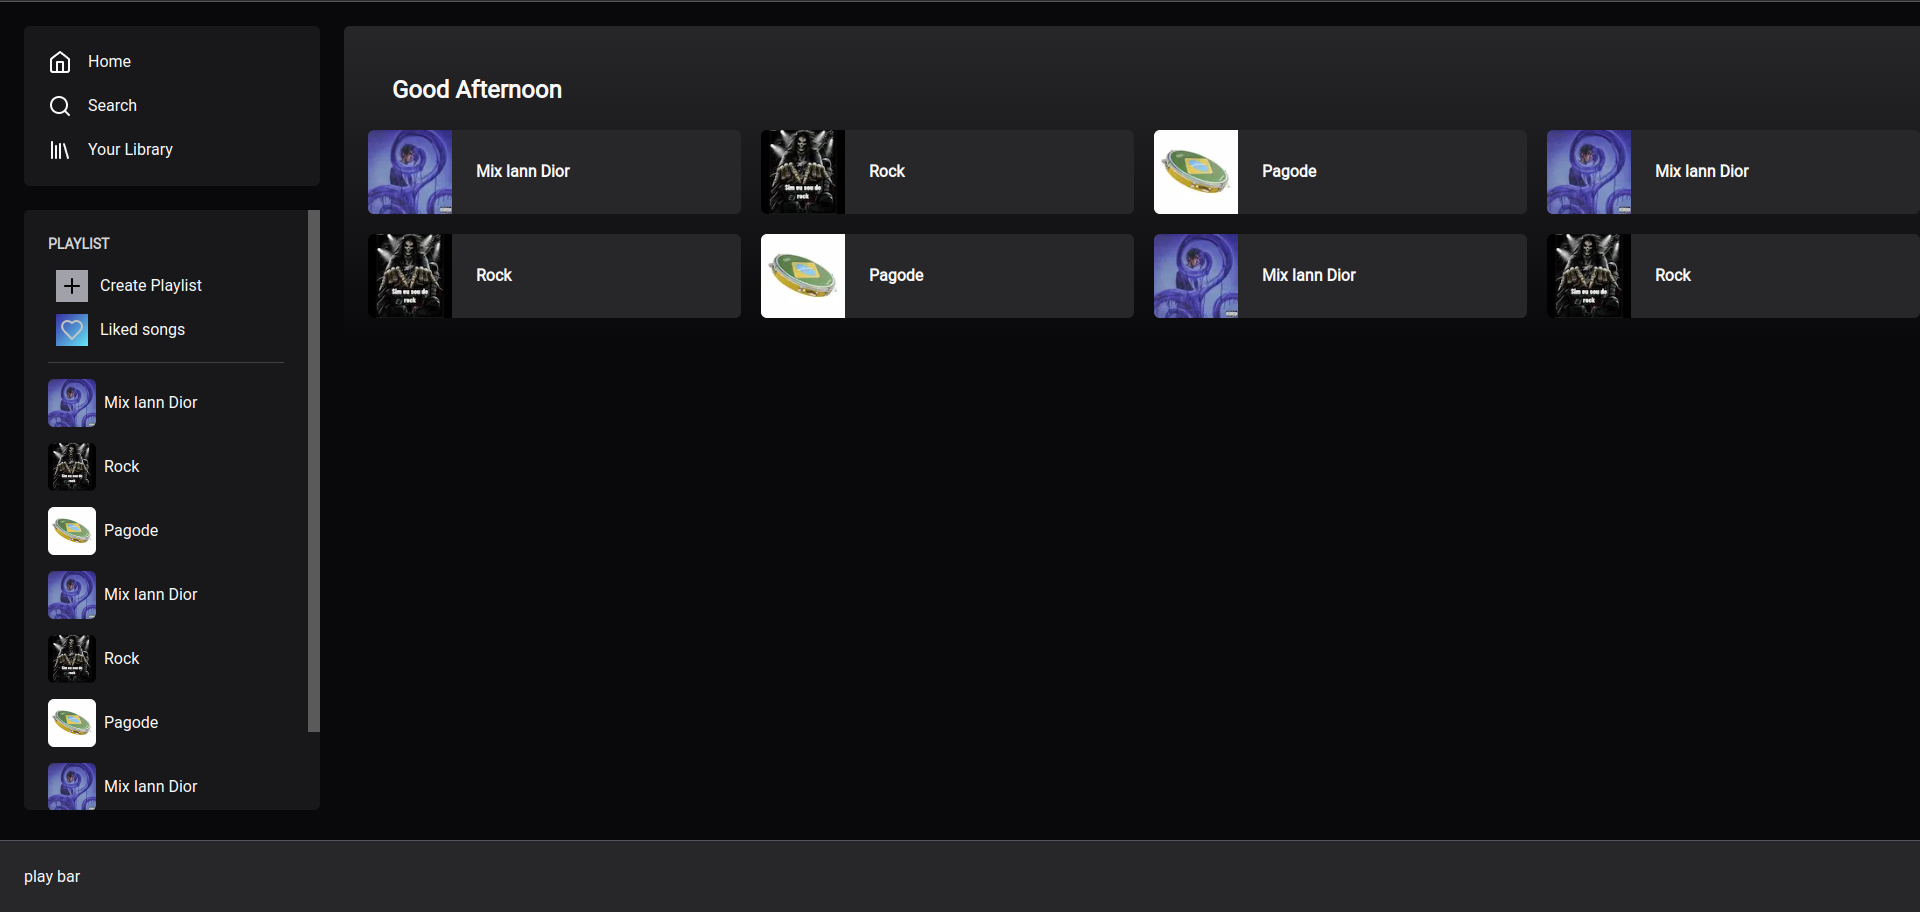
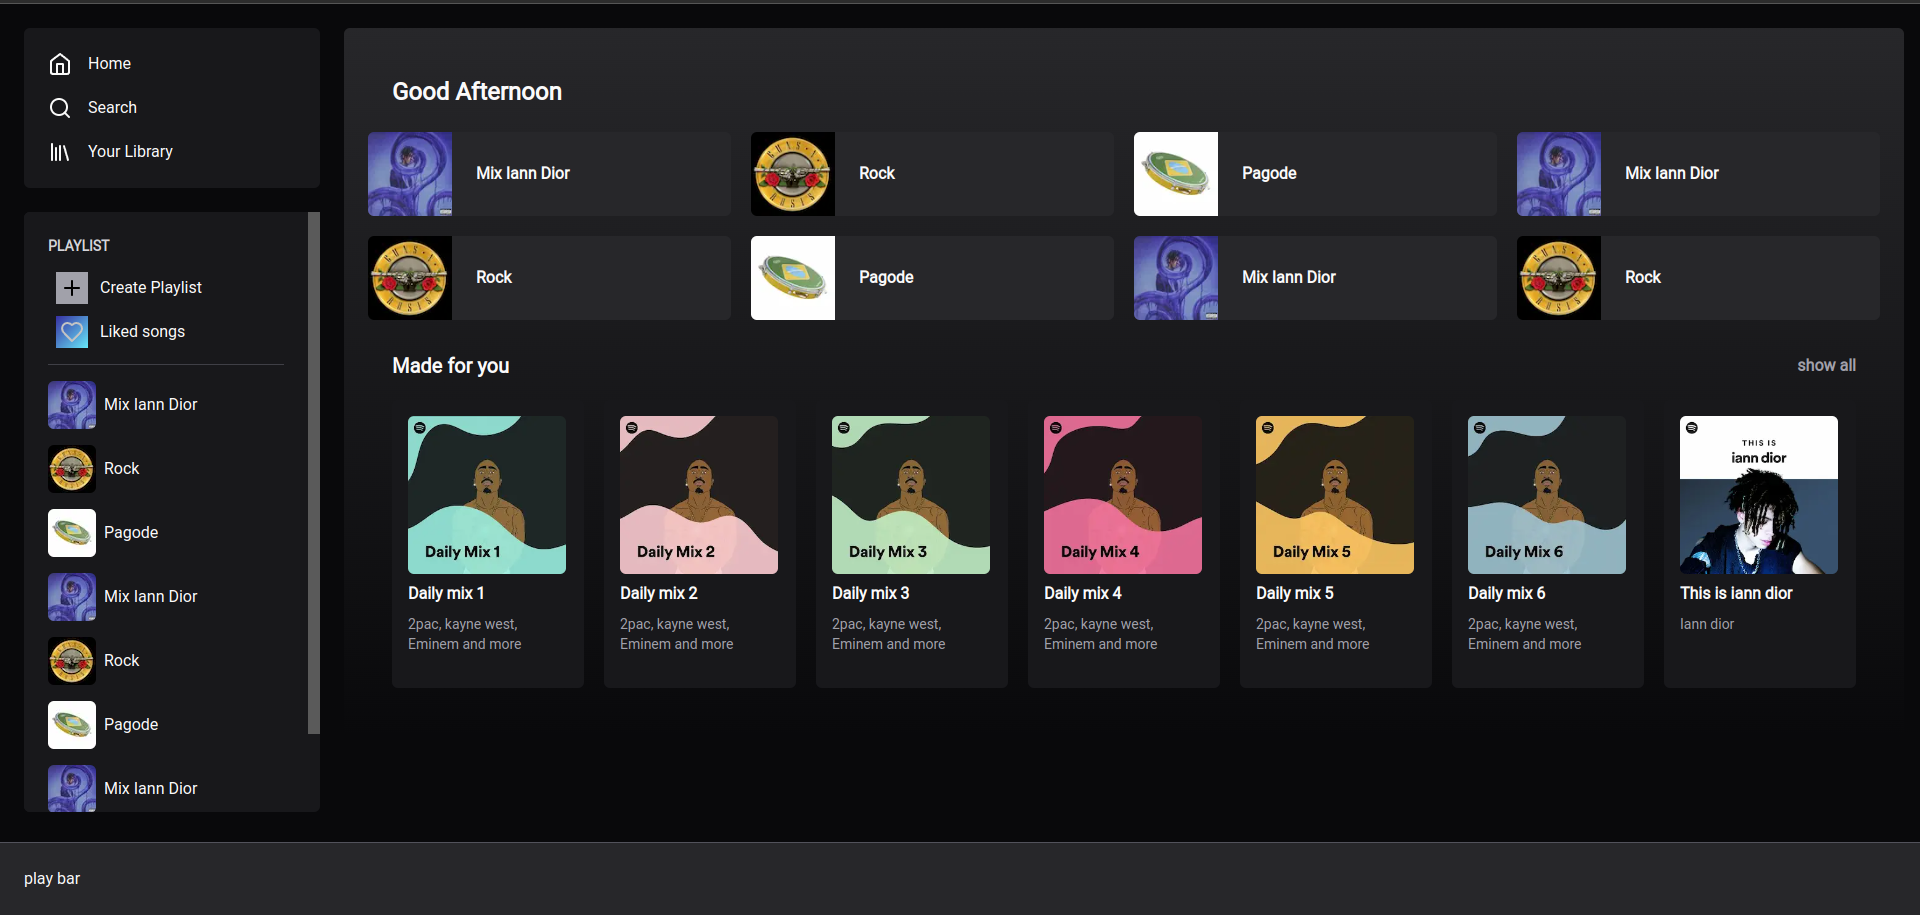
Daily mix

diff --git a/src/components/home/MadeForYou.tsx b/src/components/home/MadeForYou.tsx
@@ -1,0 +1,68 @@
+import { PlaylistCard } from "./PlaylistCard";
+
+export function MadeForYou() {
+  return (
+    <div className="flex flex-col gap-5 p-6 mt-2">
+      {/* header */}
+      <div className="flex justify-between">
+        <h1 className="text-xl font-black">Made for you</h1>
+        <button className="text-zinc-400 font-bold hover:text-zinc-300 transition-all">
+          show all
+        </button>
+      </div>
+
+      {/* playlistCard */}
+      <div className="flex flex-row gap-5">
+          <PlaylistCard
+            name={"Daily mix 1"}
+            desc={"2pac, kayne west, Eminem and more"}
+            img={
+              "https://dailymix-images.scdn.co/v2/img/ab6761610000e5eb7f5cc432c9c109248ebec1ac/1/en/default"
+            }
+          />
+        <PlaylistCard
+          name={"Daily mix 2"}
+          desc={"2pac, kayne west, Eminem and more"}
+          img={
+              "https://dailymix-images.scdn.co/v2/img/ab6761610000e5eb7f5cc432c9c109248ebec1ac/2/en/default"
+            }
+        />
+        <PlaylistCard
+          name={"Daily mix 3"}
+          desc={"2pac, kayne west, Eminem and more"}
+          img={
+              "https://dailymix-images.scdn.co/v2/img/ab6761610000e5eb7f5cc432c9c109248ebec1ac/3/en/default"
+            }
+        />
+        <PlaylistCard
+          name={"Daily mix 4"}
+          desc={"2pac, kayne west, Eminem and more"}
+          img={
+              "https://dailymix-images.scdn.co/v2/img/ab6761610000e5eb7f5cc432c9c109248ebec1ac/4/en/default"
+            }
+        />
+        <PlaylistCard
+          name={"Daily mix 5"}
+          desc={"2pac, kayne west, Eminem and more"}
+          img={
+              "https://dailymix-images.scdn.co/v2/img/ab6761610000e5eb7f5cc432c9c109248ebec1ac/5/en/default"
+            }
+        />
+        <PlaylistCard
+          name={"Daily mix 6"}
+          desc={"2pac, kayne west, Eminem and more"}
+          img={
+              "https://dailymix-images.scdn.co/v2/img/ab6761610000e5eb7f5cc432c9c109248ebec1ac/6/en/default"
+            }
+        />
+            <PlaylistCard
+              name={"This is iann dior"}
+              desc={"Iann dior"}
+              img={
+                "https://thisis-images.scdn.co/37i9dQZF1DZ06evO3TymCH-default.jpg"
+              }
+            />
+      </div>
+    </div>
+  );
+}

diff --git a/src/contexts/playlist.ts b/src/contexts/playlist.ts
@@ -24,7 +24,7 @@ const playlists: PlaylistInterface[] = [
     playlistName: "Rock",
     musica: musicas,
     playlistImage:
-      "https://imageproxy.ifunny.co/crop:x-20,resize:640x,quality:90x75/images/2f52943403d26d002be42fd77144f4023300377c3d223f666fb00fb8ae27a224_1.jpg",
+      "https://i.scdn.co/image/ab6761610000e5eb50defaf9fc059a1efc541f4c",
   },
 
   {
@@ -47,7 +47,7 @@ const playlists: PlaylistInterface[] = [
     playlistName: "Rock",
     musica: musicas,
     playlistImage:
-      "https://imageproxy.ifunny.co/crop:x-20,resize:640x,quality:90x75/images/2f52943403d26d002be42fd77144f4023300377c3d223f666fb00fb8ae27a224_1.jpg",
+      "https://i.scdn.co/image/ab6761610000e5eb50defaf9fc059a1efc541f4c",
   },
 
   {
@@ -71,7 +71,7 @@ const playlists: PlaylistInterface[] = [
     playlistName: "Rock",
     musica: musicas,
     playlistImage:
-      "https://imageproxy.ifunny.co/crop:x-20,resize:640x,quality:90x75/images/2f52943403d26d002be42fd77144f4023300377c3d223f666fb00fb8ae27a224_1.jpg",
+      "https://i.scdn.co/image/ab6761610000e5eb50defaf9fc059a1efc541f4c",
   },
 ];
 

diff --git a/src/app/page.tsx b/src/app/page.tsx
@@ -1,17 +1,22 @@
 import { GridPlaylist } from "@/components/home/GridPlaylist";
-
+import { MadeForYou } from "@/components/home/MadeForYou";
+import Image from "next/image";
 
 export default function Home() {
   return (
     <div className="flex flex-col h-screen overflow-x-hidden overflow-y-auto">
-      <div className="p-6 w-full rounded-md bg-gradient-to-b from-zinc-800 to-zinc-950 m-6">
+      <div className="p-6 rounded-md bg-gradient-to-b from-zinc-800 to-zinc-950 m-6">
         {/* hello */}
         <div className="text-2xl font-black  p-6 rounded-t-md">
           Good Afternoon
         </div>
         {/* grid playlist */}
         <GridPlaylist />
-        {/* bg-gradient-to-b from-emerald-950 ... */}
+
+        {/* made for you  */}
+
+        <MadeForYou />
+        
       </div>
     </div>
   );

diff --git a/src/components/home/PlaylistCard.tsx b/src/components/home/PlaylistCard.tsx
@@ -1,0 +1,32 @@
+import Image from "next/image";
+import Link from "next/link";
+
+
+interface PlaylistCardProps {
+    name: string,
+    desc: string,
+    img: string,
+}
+
+export function PlaylistCard(props: PlaylistCardProps) {
+  return (
+      <Link href={""}>
+    <div className="flex flex-col gap-2 w-48 h-72 bg-zinc-900 p-4 hover:bg-zinc-800 rounded-md">
+        <Image
+        className="rounded-md"
+          src={
+            props.img
+          }
+          alt={"capa do album"}
+          width={158}
+          height={158}
+        />
+
+        <h3 className="font-bold">{props.name}</h3>
+        <p className="text-zinc-400 text-sm">
+        {props.desc}
+        </p>
+    </div>
+      </Link>
+  );
+}

diff --git a/next.config.js b/next.config.js
@@ -4,6 +4,9 @@ const nextConfig = {
         domains: ['imageproxy.ifunny.co',
                   'cdn.awsli.com.br',
                   'blogger.googleusercontent.com',
+                  'i.scdn.co',
+                  'dailymix-images.scdn.co',
+                  'thisis-images.scdn.co',
     ]
     }
 }

diff --git a/readme.md b/readme.md
@@ -14,7 +14,11 @@ estou juntando elementos do antigo design com o novo, a fim de deixar a interfac
 
 ### Atualização dia 20:
 * Terminei o componente de exibição de playlists na sidebar
-* Passei todas a sidebar e a playbar para a página de layout, já que são fixas em toda a aplicação
+* Passei toda a sidebar e a playbar para a página de layout, já que são fixas em toda a aplicação
 * Criei um componente que exibe no main da aplicação as principais playlists do usuário
 * Além de definir um overflow para cada componente específico, os quais precisam, ao invés da aplicação toda, tornando a experiencia do usuário mais agradável
+
+### Atualização dia 21:
+* Arrumei alguns pequenos detalhes das funcionalidades que implementei ontem
+* Criei os componentes que compoem a parte de Daily mix
 
